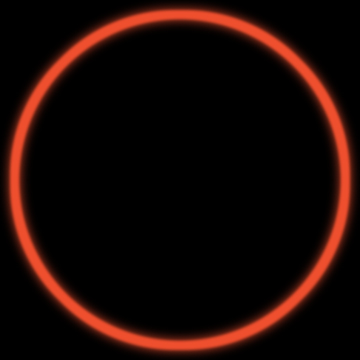
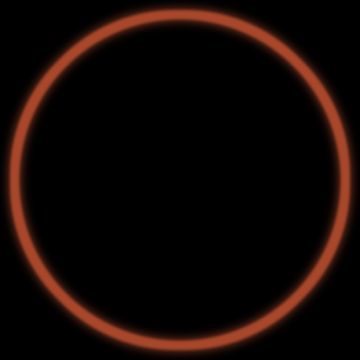
Add two more phantom to lens flare effect

Changed region(s): [[0.0, 0.0, 0.9778, 0.9778]]

diff --git a/src/filters/lens-flare.cpp b/src/filters/lens-flare.cpp
@@ -48,7 +48,7 @@ CCPLUS_FILTER(lens_flare) {
 
     int flareSize = std::max(frame.getHeight(), frame.getWidth()) / 4;
 
-    for (int i = 0; i < distance.size() - 2; i++) {
+    for (int i = 0; i < distance.size(); i++) {
         int fsize = flareSize * scale[i];
         Point2f p = center + v * length * distance[i];
         p -= Point2f(fsize / 2, fsize / 2);
@@ -83,6 +83,7 @@ CCPLUS_FILTER(lens_flare) {
     }
     imwrite("tmp/mask.png", mask);
     Frame ret(mask);
-    ret.mergeFrame(frame, 7);
+    //ret.mergeFrame(frame, 7);
+    ret.mergeFrame(frame, 1);
     frame = ret;
 }
